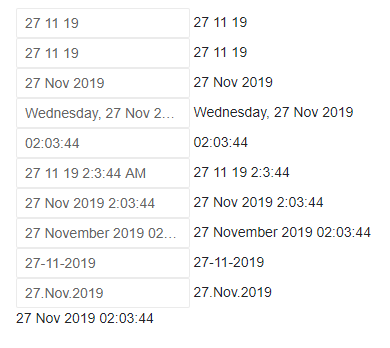
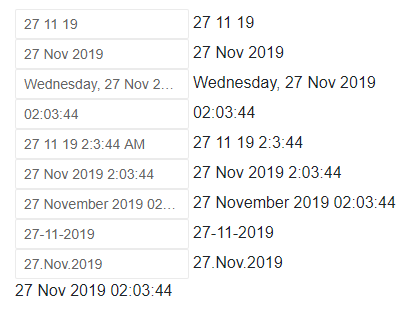
docs(dateInput): update supported date formats

diff --git a/components/dateinput/supported-formats.md b/components/dateinput/supported-formats.md
@@ -26,7 +26,6 @@ The Telerik Date Input supports the standard format strings and specifiers that 
     * `MM`
     * `MMM`
     * `MMMM`
-    * `y`
     * `yy`
     * `yyy`
     * `yyyy`
@@ -38,7 +37,6 @@ The Telerik Date Input supports the standard format strings and specifiers that 
     * `mm`
     * `s`
     * `ss`
-    * `t`
     * `tt`
 
 >caution While the results of unsupported format specifiers values will render correctly, editing is not supported for them.
@@ -101,8 +99,6 @@ The Telerik Date Input supports the standard format strings and specifiers that 
 ````CSHTML
 @using Telerik.Blazor.Components.DateInput
 
-<TelerikDateInput @bind-Value="TheDate" Format="d/M/y" /> @TheDate.ToString("d/M/y")
-<br />
 <TelerikDateInput @bind-Value="TheDate" Format="dd/MM/yy" /> @TheDate.ToString("dd/MM/yy")
 <br />
 <TelerikDateInput @bind-Value="TheDate" Format="dd/MMM/yyyy" /> @TheDate.ToString("dd/MMM/yyyy")
@@ -111,7 +107,7 @@ The Telerik Date Input supports the standard format strings and specifiers that 
 <br />
 <TelerikDateInput @bind-Value="TheDate" Format="HH:mm:ss" /> @TheDate.ToString("HH:mm:ss")
 <br />
-<TelerikDateInput @bind-Value="TheDate" Format="d/M/y h:m:s tt" /> @TheDate.ToString("d/M/y h:m:s")
+<TelerikDateInput @bind-Value="TheDate" Format="d/M/yy h:m:s tt" /> @TheDate.ToString("d/M/yy h:m:s")
 <br />
 <TelerikDateInput @bind-Value="TheDate" Format="dd/MMM/yyyy H:mm:ss" /> @TheDate.ToString("dd/MMM/yyyy H:mm:ss")
 <br />
